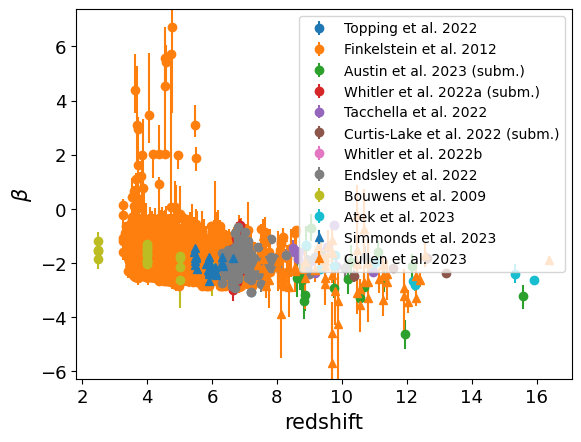
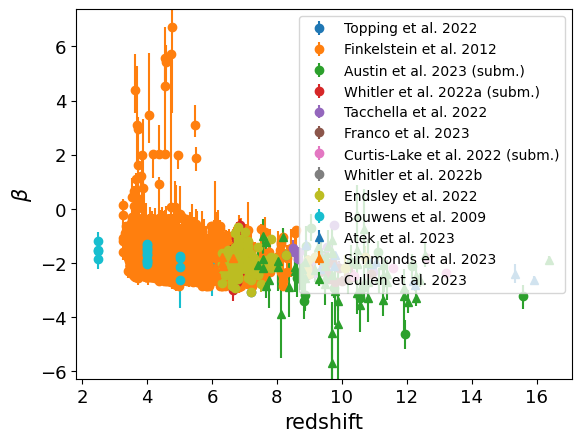
add Franco+23 to beta constraints

Changed region(s): [[0.2169, 0.2647, 0.9604, 0.8529], [0.1549, 0.5294, 0.1859, 0.6176], [0.9294, 0.5882, 0.9604, 0.6176]]

diff --git a/corecon/data/UV_slope/Franco_et_al_2023.py b/corecon/data/UV_slope/Franco_et_al_2023.py
@@ -1,0 +1,59 @@
+dictionary_tag         = "Franco et al. 2023"
+
+reference              = "Franco, Akins, Casey, Finkelstein, Shuntov, et al., subm."
+
+url                    = "https://ui.adsabs.harvard.edu/abs/2023arXiv230800751F/abstract"
+
+description            = \
+"""
+Data from 15 galaxy candidates at z>9 in the initial COSMOS-Web JWST observations (77 arcmin^2) through four 
+NIRCam filters (F115W, F150W, F277W, F444W) with an overlap with MIRI (F770W) of 8.7 arcmin2
+"""
+
+data_structure         = "points" #grid or points
+
+extracted              = False
+
+ndim                   = 1
+
+dimensions_descriptors = ["redshift"]
+
+axes                   = [10.2, 10.9,  9.5,  8.9, 10. ,  9.4, 10.2,  9. , 10.3,  9.7,  9.9, 9.8,  9. ,  9.5,  9.6]
+
+values                 = [-2.54, -2.42, -2.33, -2.19, -2.67, -2.32, -2.56, -2.18, -2.54,
+                          -1.97, -2.2 , -2.72, -2.42, -2.08, -2.59]
+
+err_up                 = [0.17, 0.27, 0.25, 0.18, 0.16, 0.15, 0.27, 0.4 , 0.37, 0.5 , 0.27,
+                          0.17, 0.36, 0.49, 0.29]
+
+err_down               = [0.13, 0.17, 0.19, 0.13, 0.12, 0.22, 0.14, 0.25, 0.19, 0.34, 0.17,
+                          0.11, 0.23, 0.32, 0.13]
+
+err_left               = [0.6, 0.5, 0.5, 0.2, 0.7, 0.6, 1. , 6.3, 1.2, 3.6, 0.7, 0.6, 1.4, 1.5, 0.8]
+
+err_right              = [0.3, 0.3, 0.7, 0.8, 0.4, 0.4, 0.5, 1. , 0.5, 0.6, 0.7, 0.5, 1.1, 0.6, 1.2]
+
+upper_lim              = False
+
+lower_lim              = False
+
+M_UV                   = [-21.21, -20.94, -20.52, -20.4 , -20.4 , -20.29, -20.26, -20.09,
+                          -20.08, -20.04, -19.99, -19.94, -19.85, -19.47, -19.46]
+
+err_up_M_UV            = [0.11, 0.19, 0.14, 0.13, 0.12, 0.13, 0.18, 0.2 , 0.22, 0.34, 0.18,
+                          0.21, 0.23, 0.36, 0.26]
+
+err_down_M_UV          = [0.11, 0.13, 0.16, 0.11, 0.13, 0.14, 0.18, 0.19, 0.24, 0.26, 0.14,
+                          0.15, 0.18, 0.24, 0.22]
+
+logMstar               = [8.8, 8.9, 9.5, 8.8, 8.4, 8.5, 8.6, 9. , 8.5, 9.3, 8.4, 8.3, 8.5, 8.6, 7.3]
+
+err_up_logMstar        = [0.3, 0.5, 0.2, 0.5, 0.3, 0.5, 0.5, 0.4, 0.5, 0.3, 0.4, 0.4, 0.5, 0.5, 1.5]
+
+err_down_logMstar      = [0.3, 0.4, 0.5, 0.5, 0.3, 0.3, 0.5, 0.6, 0.4, 0.7, 0.2, 0.3, 0.5, 0.6, 1.6]
+
+SFR                    = [13.1,  8.7,  8. ,  6.2,  5.1,  5.8,  6.4,  8.1,  4.4,  3.9,  7.2, 3.1,  4.1,  1.5,  2.2]
+
+err_up_SFR             = [2.5, 7.2, 3. , 1.9, 1.2, 1.1, 1.9, 3.2, 1.3, 5.3, 1.6, 0.6, 0.8, 1. , 0.3]
+
+err_down_SFR           = [2.5, 7.2, 3. , 1.9, 1.2, 1.1, 1.9, 3.2, 1.3, 5.3, 1.6, 0.6, 0.8, 1. , 0.3]

diff --git a/docs/datarst/UV_slope.rst b/docs/datarst/UV_slope.rst
@@ -67,6 +67,12 @@ Data
 
    <a href="https://iopscience.iop.org/article/10.1088/0004-637X/756/2/164/pdf" target="_blank">Finkelstein et al. 2012</a>
 
+|Franco et al. 2023|
+
+.. |Franco et al. 2023| raw:: html
+
+   <a href="https://ui.adsabs.harvard.edu/abs/2023arXiv230800751F/abstract" target="_blank">Franco et al. 2023</a>
+
 |Simmonds et al. 2023|
 
 .. |Simmonds et al. 2023| raw:: html
